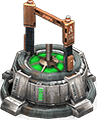
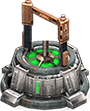
block done!!!

diff --git a/RTSGame/Classes/GameElement/Barrack.cpp b/RTSGame/Classes/GameElement/Barrack.cpp
@@ -4,7 +4,7 @@ Barrack::Barrack()
 	:Building(BARRACK)
 {
 	this->initWithFile("Game/building/barrack.png");
-	this->setAnchorPoint(Vec2(0.5, 0.5));
+	this->setAnchorPoint(Vec2(0.5, 0.4));
 	this->blood = 200;
 
 
